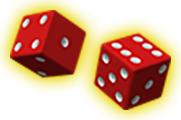
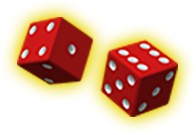
Fixed minior bugs
Changed music volume after mute/unmute

Changed picture size of DicePressed.png

diff --git a/helper.js b/helper.js
@@ -23,6 +23,7 @@ function toggleMute() {
 		stage.addChild(unmuteButton);
 		stage.removeChild(muteButton);
 		ambianceSound = createjs.Sound.play("song", {loop:-1});
+        ambianceSound.volume = 0.125;
 	}
 }
 
